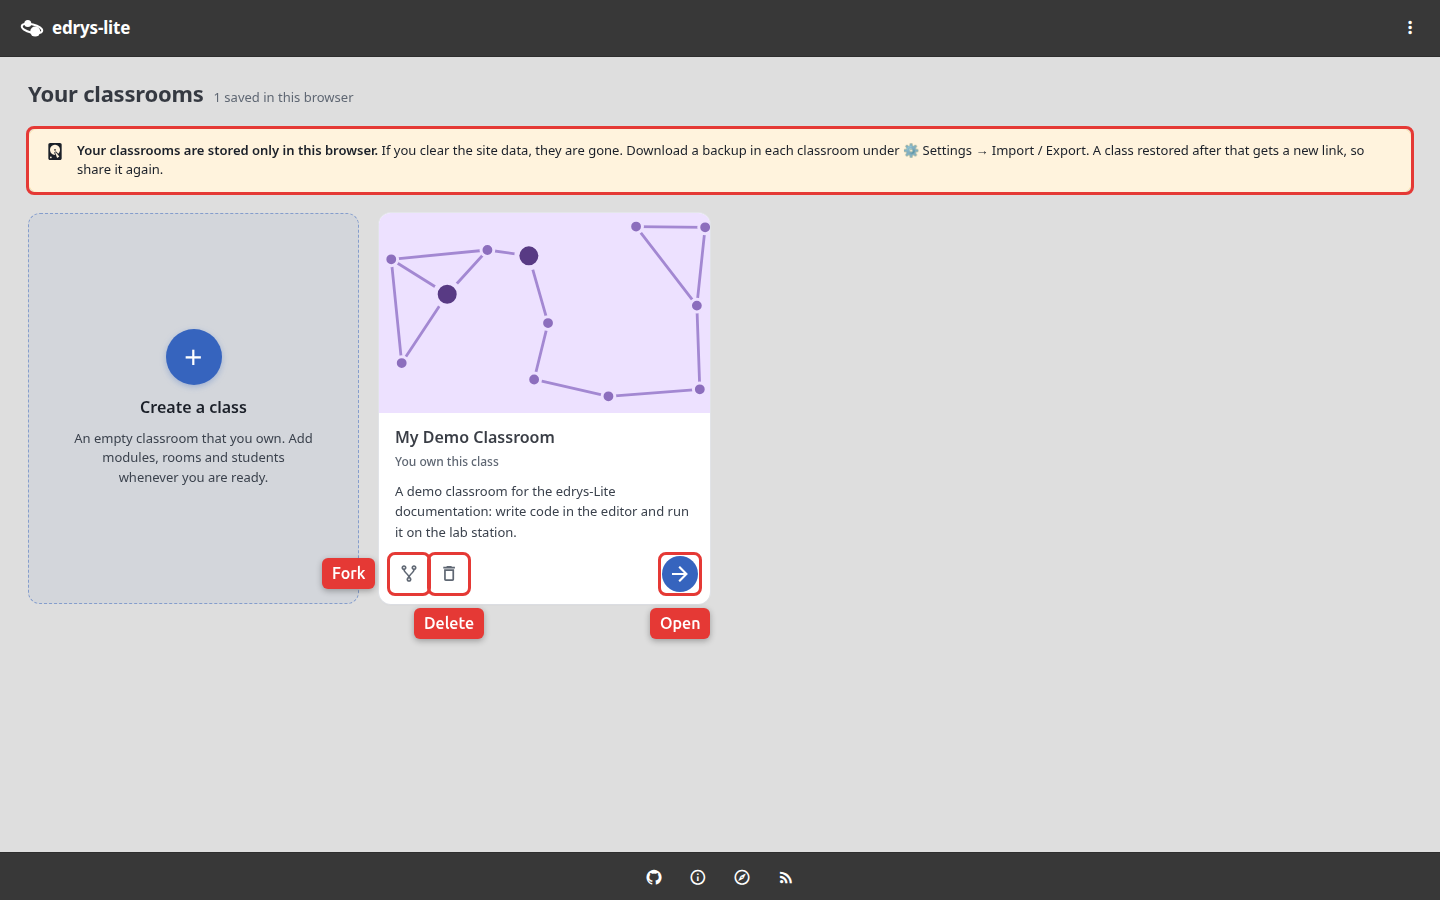
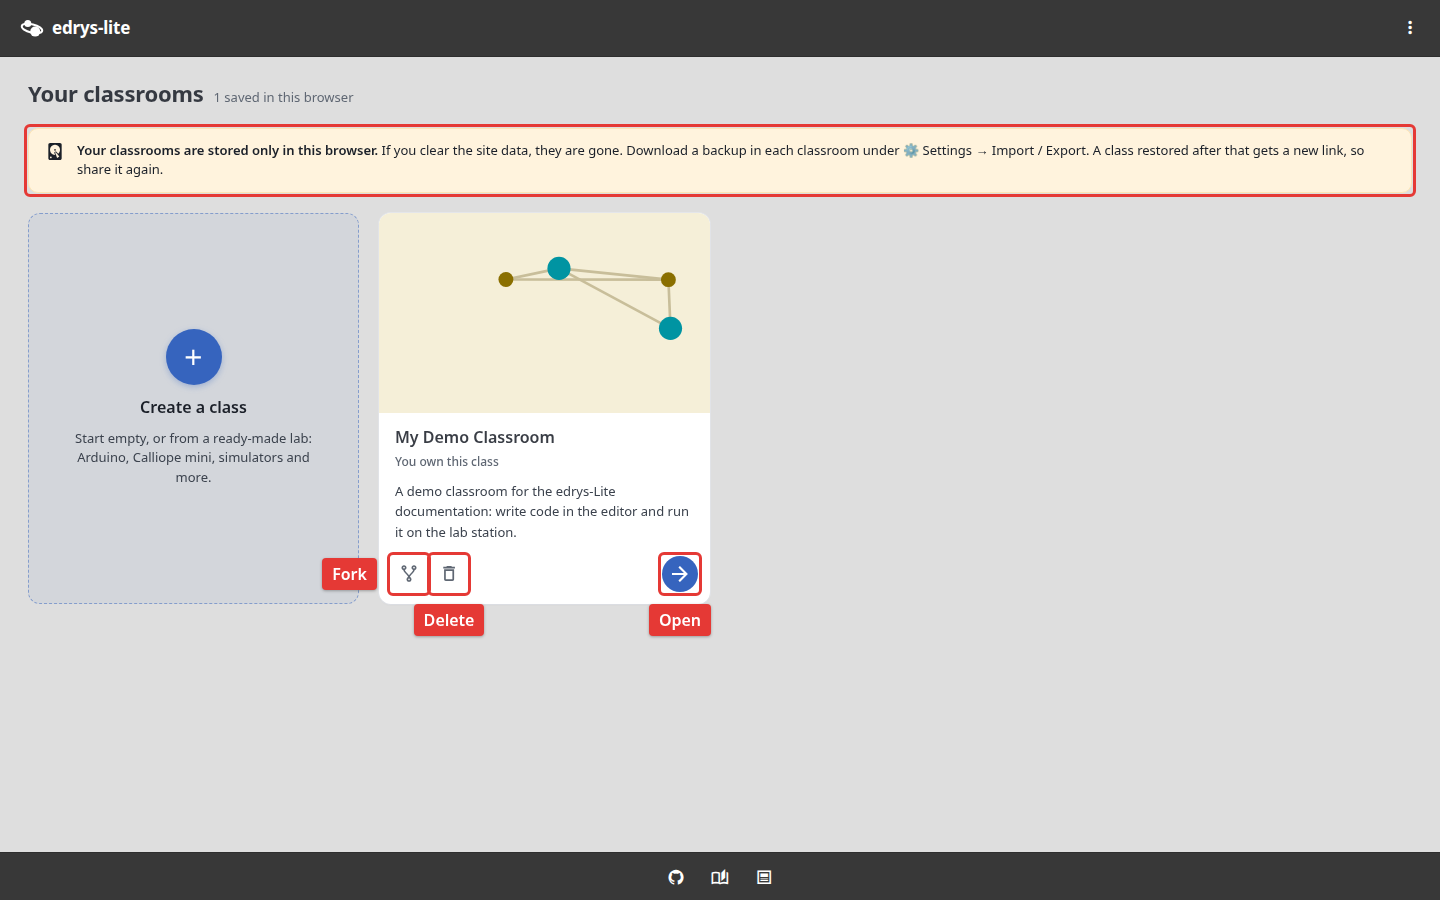
Ready-made labs: new section for Browse labs, create-class choice, footer without the labs link; new screenshots

diff --git a/README.md b/README.md
@@ -114,10 +114,15 @@ A short version of the ID is shown there; the copy button next to it copies the 
 
 *    --{{0}}--
   Visit https://edrys-labs.github.io and click on `Create a class`.
-  By the way, the buttons in the footer allow you to have a look at the project on GitHub, read this documentation, explore several ready-to-use remote labs and visit the blog.
+  By the way, the buttons in the footer lead to the project on GitHub, to this documentation and to the blog.
   The menu with the three dots (⋮) in the top right corner holds your User ID, the language and the theme.
 
   ![edrys-lite](images/edrys-page.png)
+
+*    --{{0}}--
+  Choose `Empty class` to start from scratch, or `From a ready-made lab` to copy one of the labs from edrys-labs (see [Ready-made Labs](#Ready-made-Labs)).
+
+  ![Create a class](images/create-choice.png)
 
 *    --{{0}}--
   A new classroom will be generated with a unique ID in the URL, and you are its owner.
@@ -324,9 +329,6 @@ meta:
   logo: url of the lab logo
   description: description of the lab
   defaultNumberOfRooms: number of rooms
-members:
-  teacher: list of teacher ids
-  student: list of student ids
 modules:
   - url: url of the module
     config: available for everyone
@@ -339,18 +341,15 @@ modules:
 ```
 
     --{{2}}--
-The file contains no keys or signatures.
+The file contains no members, keys or signatures.
 Whoever restores it becomes the owner of the restored classroom, so a file can be shared freely as a template.
 
     --{{2}}--
 Under `Restore` you can load a configuration either from a file on your computer or, if it is hosted somewhere on the web, from a link to the file. Click `Restore` next to it.
-The loaded configuration replaces the setup of the current class, but nothing changes for the others until you click `Save`.
+The loaded configuration replaces the setup of the current class, its members stay, and nothing changes for the others until you click `Save`.
 
     --{{3}}--
-Some ready-to-use classroom configurations are available in the following repositories, which `Explore on GitHub` under `Find labs` opens (you can also just click the deploy button of the desired configuration):
-
-      {{3}}
-https://github.com/topics/edrys-lab
+Ready-made labs can also be loaded without a file, see [Ready-made Labs](#Ready-made-Labs).
 
     --{{4}}--
 Deploy buttons are a shortcut to create a new classroom from a configuration file. The only relevant part is the URL of the file, which is appended to `https://edrys-labs.github.io/?/deploy/`.
@@ -366,6 +365,33 @@ You can try this out by yourself by clicking on the following button:
 
       {{5}}
 [<img src="https://img.shields.io/badge/%F0%9F%9A%80%20-%20Deploy%20Lab%20-%20light?style=plastic" height="25" />](https://edrys-labs.github.io/?/deploy/https://raw.githubusercontent.com/edrys-labs/lab-web-serial/main/laboratory/micropython.yaml)
+
+
+### Ready-made Labs
+
+    --{{0}}--
+edrys-labs publishes ready-made labs, for Arduino, Calliope mini, simulators and more.
+Each one is a complete classroom setup that you can use as it is or change to fit your course.
+When you create a class, choose `From a ready-made lab` and click `Create` next to a lab: a new class is created from it, and you are its owner.
+
+      {{1}}
+![Choose a lab](images/labs-create.png)
+
+    --{{1}}--
+Search for a board or a topic, or show only the labs with or without a station.
+A lab tagged `Needs a station` uses hardware, so a computer in the lab has to run its station link (see [Remote Labs with Stations](#Remote-Labs-with-Stations)).
+Labs tagged `No station needed` work with nothing but the browsers of the participants.
+The ⓘ button opens the lab on GitHub, where its README explains what it needs.
+
+    --{{2}}--
+In an existing class, open `Settings` → `Import / Export` and click `Browse labs` under `Find labs`.
+`Use` replaces the setup of this class with the lab after you confirm it; the members of the class stay, and nothing changes for the others until you click `Save`.
+
+      {{2}}
+![Find labs](images/load-config.png)
+
+    --{{3}}--
+More labs, also from other teachers, are listed on GitHub under the topic `edrys-lab`: https://github.com/topics/edrys-lab
 
 
 ### Communication
@@ -618,7 +644,7 @@ The terminal shows the compiler output and then the serial output, `on` and `off
 </section>
 
     --{{0}}--
-Ready-made labs like this one can be found at https://github.com/topics/edrys-lab.
+Ready-made labs like this one are listed under `Create a class` → `From a ready-made lab` (see [Ready-made Labs](#Ready-made-Labs)).
 
 
 ## AI Agents and Skills
